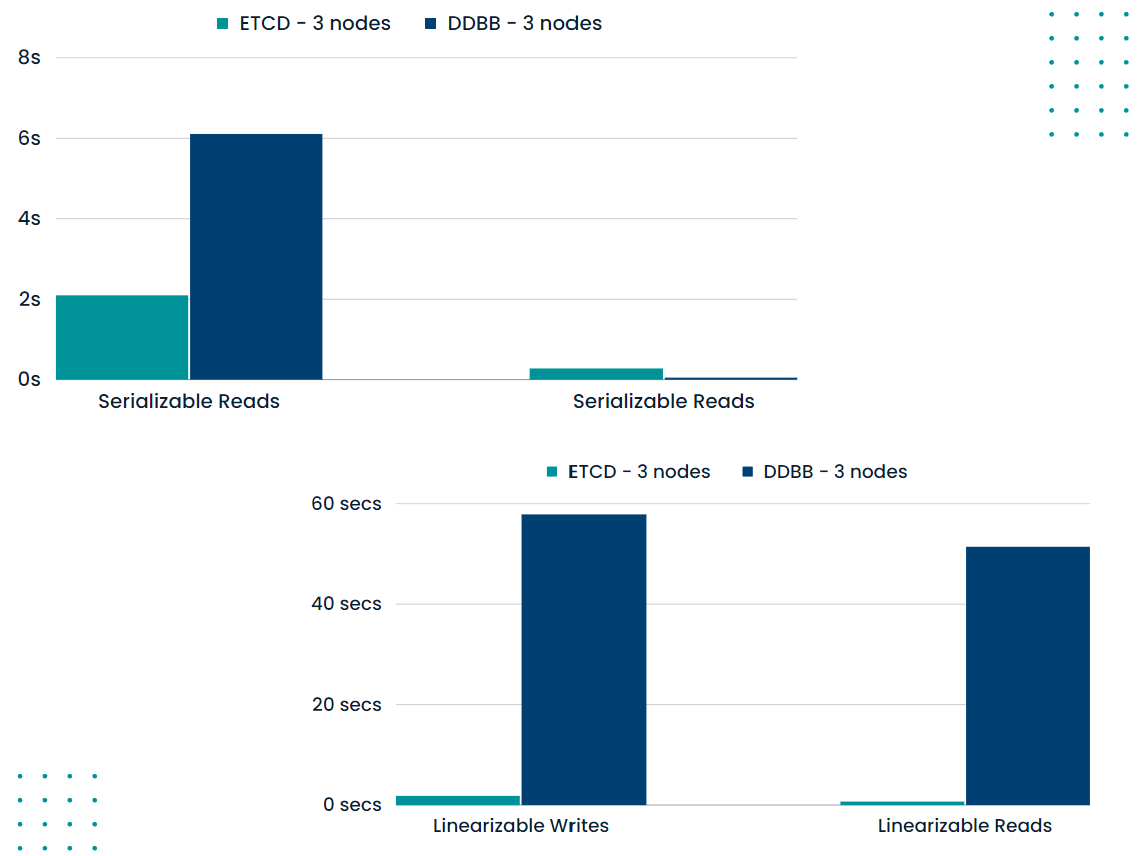
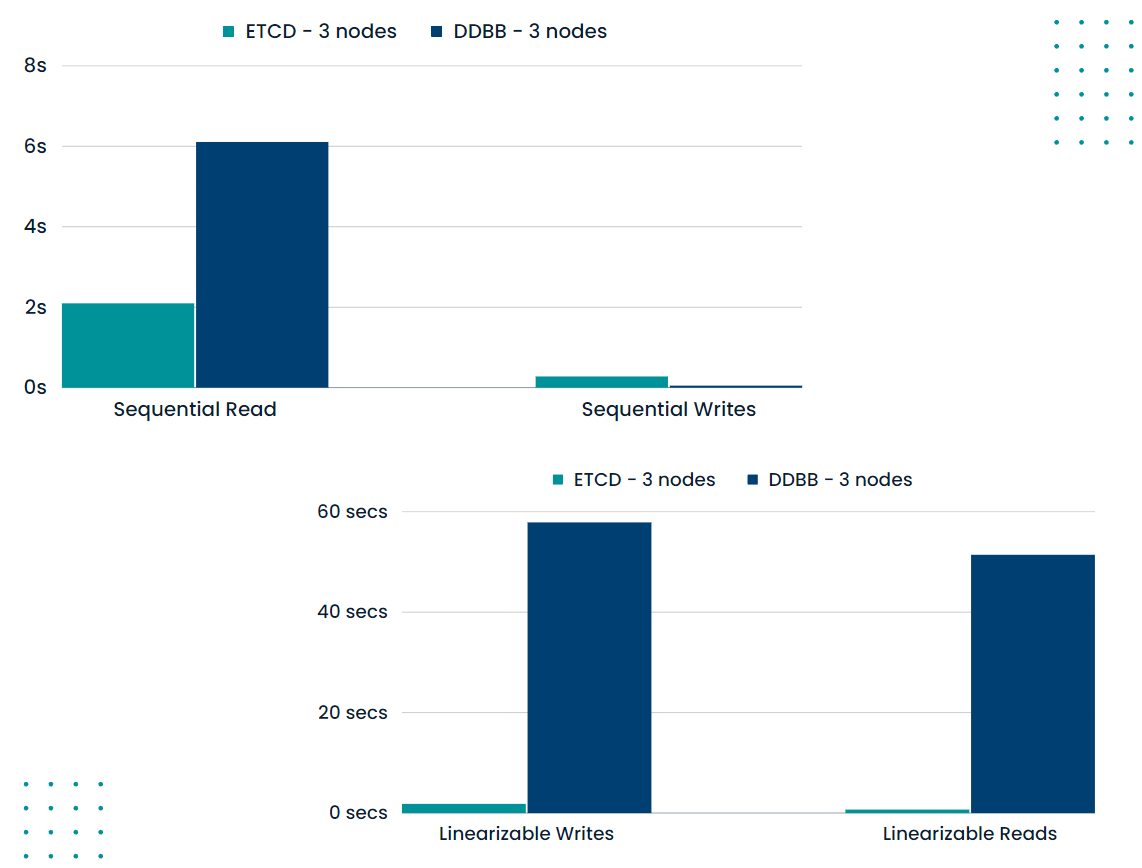
change the term

diff --git a/doc/ddbb_deepdive.md b/doc/ddbb_deepdive.md
@@ -6,7 +6,7 @@
 
 ## 1 Introduction
 
-Our goal is to build a etcd-like system with Omni-Paxos. We achieved a k-v store functionality and it guaranteens both Serializable and Linearizable operations. We also completed several testing related performance and complare our solution with etcd. At the end of the day, we can say our system, DDBB, can reach 20% of the performance of etcd.
+Our goal is to build a etcd-like system with Omni-Paxos. We achieved a k-v store functionality and it guaranteens both Sequential (Not fully supported) and Linearizability consistency in doing operations. We also completed several testing related performance and complare our solution with etcd. At the end of the day, we can say our system, DDBB, can reach 20% of the performance of etcd.
 
 ### 1-1 Project group info
 
@@ -23,7 +23,7 @@ Our goal is to build a etcd-like system with Omni-Paxos. We achieved a k-v store
 ### 2-1 Functions
 
 - Stable and high-performance connection layer implementation for OmniPaxos, which is using failure-recovery model.
-- Linearizable read and write, sequential read and write, delete operations on a KV store.
+- Linearizable read and write, sequential read and write, and delete operations on a KV store.
 - Crash recovery when majority connected.
 - Tolerates and recovers from partial connectivity.
 - Snapshots and compacts.
@@ -534,9 +534,15 @@ http://127.0.0.1:32379 --listen-peer-urls http://127.0.0.1:32380 --initial-adver
 
 The official Benchmark CLI tool from etcd. Can be found at [Benchmark](https://github.com/etcd-io/etcd/tree/v3.4.16/tools/benchmark).
 
+```bash
+#run build when under the etcd folder
+
+go run ./tools/benchmark --endpoints=http://127.0.0.1:2379,http://127.0.0.1:22379,http://127.0.0.1:32379 --target-leader --conns=1 --clients=1 put --key-size=8 --sequential-keys --total=10000 --val-size=256
+```
+
 #### 5-3-2 DDBB set up
 
-Start our server with `cargo run --bin ddbb_server`, then run into different cases. More details can be found in our repo.
+Start our server with `cargo run`, then run into different cases. More details can be found in our repo.
 
 ### 5-4 Test Cases
 
@@ -552,7 +558,7 @@ As can be seen from the graph, the cluster size has almost no effect on the read
 
 <img src="./ddbb_deepdive.assets/requests_size.png" alt="requests-size" title="requests size" style="zoom:50%;" />
 
-This is because linearizable read/write conversions are time-consuming when the request volume is 100000. If added to the graph it would affect the data deflation and become unreadable, so only their values can be marked. Through several tests, we found that the performance of reads and writes grows linearly and is almost proportional to the ratio between requests. For example, if the request increases ten times, the processing time becomes similarly ten times.
+We didn't put the time cost for 100,000 requests in the figure, because linearizable read/write operations conersions are time-consuming. If added to the graph it would affect the data deflation and become unreadable, so only their values can be used. Through several tests, we found that the performance of reads and writes grows linearly and is almost proportional to the ratio between requests. For example, if the request increases ten times, the processing time becomes similarly ten times.
 
 #### 5-4-3 Serializable and Linearizable
 
@@ -560,7 +566,7 @@ This is because linearizable read/write conversions are time-consuming when the 
 
 <img src="./ddbb_deepdive.assets/reads.png" alt="reads" title="reads" style="zoom:50%;" />
 
-In our tests, linearizable write and read take a lot of time, about 5-5 times longer than serializable. The main reasons for this are Linearizable read requests go through a quorum of cluster members for consensus to fetch the most recent data. Serializable read requests are cheaper than linearizable reads since they are served by any single node, instead of a quorum of members, in exchange for possibly serving stale data.
+In our tests, linearizable writes and reads take a lot of time, about 4-5 times longer than sequential writes. The main reasons for this are Linearizable read requests go through a quorum of cluster members for consensus to fetch the most recent data. Sequential read requests are cheaper than linearizable reads since they are served by any single node, instead of a quorum of members, in exchange for possibly serving stale data.
 
 #### 5-4-4 Single / Multiple Write Requests
 
@@ -570,18 +576,18 @@ Single-threaded compared to multi-threaded, Multi-threaded can save 1/3 of the t
 |          | 1000 Requests - Single           | 10000 Requests - Single         | 10000 Requests - Single           | 1000 Requests - Concurrent           |1000 Requests - Concurrent           |1000 Requests - Concurrent           |
 | ------------- | --------------- |--------------- |--------------- |--------------- |--------------- |--------------- |
 | Writes   |  2.0932 secs  | 20.1689 secs  |193.6696 secs  |  1.5353 secs| 16.1182 secs|  148.1724 secs|
-| Serializable Reads | 0.2688 secs  |2.5756 secs.  | 25.3775 secs|  0.2422 secs| 2.3705 secs| 22.7303 secs|
+| Sequential Reads | 0.2688 secs  |2.5756 secs.  | 25.3775 secs|  0.2422 secs| 2.3705 secs| 22.7303 secs|
 | Linearizable Reads| 0.7025secs |7.1154 secs  | 71.8752 secs|  0.5561 secs| 5.7274 secs|  54.8549 secs|
 
 #### 5-4-5 Maximum operation per unit time
 
-After our testing, our DDBB can support writing 7000 records and reading 100000 data per minute with serializable operations.  To ensure linearizable operations, the performance of our solution is significantly lower. This test is performed by using the process sleep time for a cluster of 5 nodes is **10 milliseconds**; **5 milliseconds** for 3 nodes to ensure no data loss.
+After our testing, our DDBB can support writing 7000 records and reading 100000 data per minute with operations guaranteed sequential consistency.  To ensure linearizable operations, the performance of our solution is significantly lower. This test is performed by using the process sleep time for a cluster of 5 nodes is **10 milliseconds**; **5 milliseconds** for 3 nodes to ensure no data loss.
 
 #### 5-4-6 Etcd comparison
 
 <img src="./ddbb_deepdive.assets/etcd-ddbb.png" alt="ddbb-etcd" title="ddbb etcd" style="zoom: 67%;" />
 
-According to our results, with seq writes, we can achieve 30% of the speed of etcd in various serializable operations and even faster reads than etcd in the case of seq reads.However, our performance becomes extremely poor when it comes to linearizable reads and writes. It can only reach about 5% of the performance of etcd, and 1/6 of the performance of etcd in the multi-threaded case.  One of the reasons is that we have to let the threads sleep for a while to ensure that the data can be stored and read without errors. This is the main area of improvement for us in the future.
+According to our results, with sequential writes, we can achieve 30% of the speed of etcd in various  operations guaranteed sequential consistency and even faster reads than etcd in the case of sequential reads. However, our performance becomes extremely poor when it comes to linearizable reads and writes. It can only reach about 5% of the performance of etcd, and 1/6 of the performance of etcd in the multi-threaded case.  One of the reasons is that we have to let the threads sleep for a while to ensure that the data can be stored and read without errors. This is the main area of improvement for us in the future.
 
 #### 5-4-7 Partial Connectivity
 
@@ -596,15 +602,15 @@ Etcd supports fail recovery like the following, firstly start cluster and kill o
 
 ## 6 Future Work
 
-How can your work be further extended and improved in the future (either by you or others)? You can also mention things you wanted to solve but there was simply not enough time.
+<!-- How can your work be further extended and improved in the future (either by you or others)? You can also mention things you wanted to solve but there was simply not enough time. -->
 
-As mentioned above, as We currently haven't found a specific reason why our program is taking an extremely long time to operate in lin. So if we have time, we should spend more time debugging to find the cause or come up with a more efficient solution. And to make the whole project better and more practical, one of the features should be user groups so that users can operate according to their assigned role, which is, of course an add-on feature.
+As mentioned above, as we currently haven't found a specific reason why our program is taking an extremely long time to support linearizable consistency. So if we have time, we should spend more time debugging to find the cause or come up with a more efficient solution. And to make the whole project better and more practical, one of the features should be user groups so that users can operate according to their assigned role, which is, of course an add-on feature.
 
 ## 7 Summary
 
-To sum up, the project is very interesting, and kind of demanding since most of my teamnates are not that familiar with Rust language. The time is also very limited, so the pressure is a bit high.  
+To sum up, the project is very interesting, and kind of demanding since most of my teamnates are not that familiar with Rust language. But they are all cool and nice guys. We used GitHub to collabrate and will regurally hold team meeting. Since the time is also very limited, so the pressure is a bit high.  
 
-However, we still finished the project and achieved several functionality points, such as linearizable & serializable read and write, and connection layer implementation for OmniPaxos, which uses using failure-recovery model. And we also completed testing, and even though the performance wasn't that great, it turned out that the features we wanted to verify worked as expected. Through multiple tests, we have a deeper understanding of linearizable and serializable. All in all, I learned a lot from the project.
+However, we still finished the project and achieved several functionality points, such as linearizable & ssequential consistency, and connection layer implementation for OmniPaxos, which uses using failure-recovery model. And we also completed testing, and even though the performance wasn't that great, it turned out that the features we wanted to verify worked as expected. Through multiple tests, we have a deeper understanding of linearizable and serializable. All in all, we learned a lot from the project.
 
 ## 8 A Big Defect With tikio::select
 
